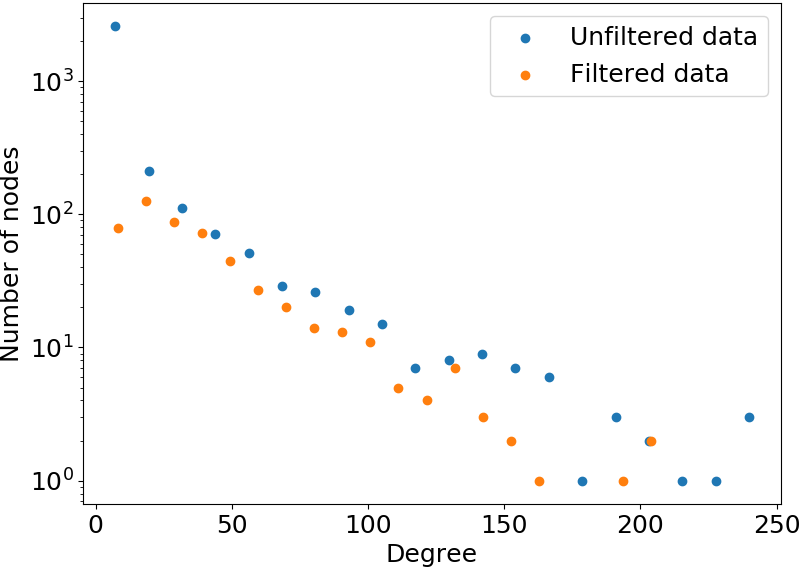
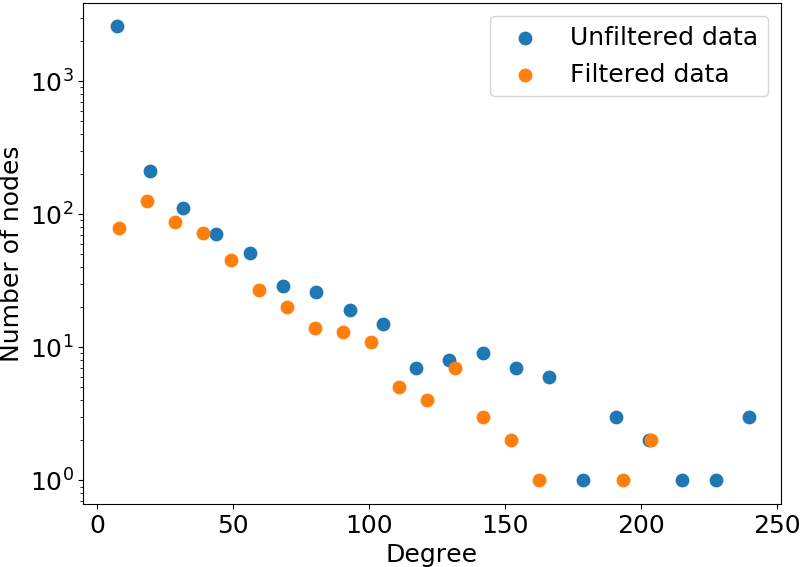
Reworked plots

diff --git a/utilities/plotting/network.py b/utilities/plotting/network.py
@@ -1,4 +1,4 @@
-from networkx import spring_layout, draw_networkx_nodes, draw_networkx_edges
+from networkx import spring_layout, draw_networkx_nodes, draw_networkx_edges, kamada_kawai_layout, rescale_layout
 from matplotlib.pyplot import figure, draw, axis, show, savefig, cm
 from utilities import fig_size
 from numpy import min, max, array
@@ -11,19 +11,19 @@ def plot_network(network, blocking=True, netx_plot=False, size=fig_size, weights
     ax.axis('off')  # Disable axis
 
     graph = network if netx_plot else network.network_plot
-    plot_layout = spring_layout(graph)
+    plot_layout = kamada_kawai_layout(graph)
 
     sizes, edge_colors, node_colors = 80, 'k', 'w'
     if weights is not None:
-        sizes = [10 if weight == 0 else 25 for weight in weights]
+        sizes = [50 if weight == 0 else 80 for weight in weights]
         node_colors = weights
 
-    if plot_edges: draw_networkx_edges(graph, plot_layout, alpha=.1)
+    if plot_edges: draw_networkx_edges(graph, plot_layout, alpha=.05)
     draw_networkx_nodes(graph, plot_layout, node_size=sizes, linewidths=.5, edgecolors='k', node_color=node_colors,
-                        cmap=cm.get_cmap('Blues'))
+                        cmap=cm.get_cmap('coolwarm'))
     draw()
 
-    if file_name is not None: savefig(file_name)
+    if file_name is not None: savefig(file_name, bbox_inches='tight', pad_inches=0)
     show(block=blocking)  # Open matplotlib window
 
 
@@ -63,7 +63,7 @@ def plot_net_w_routes(nodes, edges, plot_edges=True, blocking=True, file_name=No
 
     if file_name is not None:
         try:
-            savefig(file_name)
+            savefig(file_name, bbox_inches='tight', pad_inches=0)
         except:
             print('Bad save!')
 

diff --git a/execute/performance/centrality.py b/execute/performance/centrality.py
@@ -1,0 +1,37 @@
+from networkx import barabasi_albert_graph
+from time import time
+from utilities.plotting import plot_scatter_data
+from utilities import save_trials
+from model.optimize import simple_centrality, maximum_entropy, gradient_optimize
+from numpy import array, logspace
+from model import network
+
+img_name = '../../results/algorithm_performance/centrality.png'
+data_path = '../../data/algorithm_performance/centrality.csv'
+
+# net_sizes = [10, 20, 30, 50, 100, 150, 200, 250, 500, 750, 1000]
+net_sizes = logspace(1, 3, 10)
+optimize_times = []
+trials = 10
+
+for raw_size in net_sizes:
+    size = int(raw_size)
+    netx = barabasi_albert_graph(size, 5)
+
+    tmp = 0
+    for i in range(trials):
+        net = network(size, graph=netx)
+
+        start = time()
+        simple_centrality(net, 2, quiet=True)
+        end = time()
+
+        tmp += end - start
+
+    optimize_times.append(tmp / trials)
+    print('Done ' + str(size))
+
+
+data = array([net_sizes, optimize_times])
+save_trials(optimize_times, data_path, titles=net_sizes, single_line=True)
+plot_scatter_data(data, file_name=img_name, x_label='Network Size', y_label='Time to Optimize (s)')

diff --git a/execute/network/optimized_network.py b/execute/network/optimized_network.py
@@ -2,12 +2,19 @@ from execute.import_data import load_airport_and_route
 from execute.optimal_distribution import optimal_distribution
 from utilities.plotting import plot_net_w_routes, plot_network
 from networkx import from_edgelist
+from utilities import filter_degree, re_index
+from numpy import multiply
 
+data_path = '../../data/optimal_distribution/f_100_analytical.csv'
+airports, routes = load_airport_and_route(deep_load=True, filter_data=False)
+airports, _, routes = filter_degree(airports, routes, d_cut_off=100)
+airports, routes = re_index(airports, routes)
+weights = optimal_distribution(alt_file=data_path)
+weights = multiply(weights, -1)
 
-airports, routes = load_airport_and_route(deep_load=True)
-weights = optimal_distribution(deep_load=True)
+print(len(airports))
 
 path = '../../results/network/optimal.png'
 # plot_net_w_routes(airports, routes, plot_edges=False, weights=weights, file_name=path)
 netx = from_edgelist(routes)
-plot_network(netx, netx_plot=True, weights=weights, file_name=path)
+plot_network(netx, netx_plot=True, weights=weights, file_name=path, plot_edges=True, size=(9, 6))

diff --git a/utilities/plotting/analysis.py b/utilities/plotting/analysis.py
@@ -7,7 +7,7 @@ def plot_scatter_data(data, multiple=False, file_name=None, leg=None, blocking=T
     size = data_fig_size if size is None else size
     font_size = plot_font_size if font_size is None else font_size
     fig = figure(figsize=size)
-    rcParams.update({'font.size': font_size})
+    rcParams.update({'font.size': font_size, 'mathtext.default':  'regular'})
     ax = fig.gca()
 
     min_x, max_x, min_y, max_y = 0, 0, 0, 0
@@ -21,9 +21,9 @@ def plot_scatter_data(data, multiple=False, file_name=None, leg=None, blocking=T
             min_y = tmp_min_y if min_y > tmp_min_x else min_y
             max_y = tmp_max_y if max_y < tmp_max_y else max_y
 
-            ax.scatter(run[0, :], run[1, :])
+            ax.scatter(run[0, :], run[1, :], s=80)
     else:
-        ax.scatter(data[0, :], data[1, :])
+        ax.scatter(data[0, :], data[1, :], s=80)
         min_x, max_x = min(data[0, :]), max(data[0, :])
         min_y, max_y = min(data[1, :]), max(data[1, :])
 

diff --git a/execute/plots/solution_convergence.py b/execute/plots/solution_convergence.py
@@ -52,9 +52,9 @@ else:
 # Save and plot data
 time_n = len(trial_exposures[0]) - 1
 save_trials(trial_exposures, data_path, titles=num_nodes)
-plot_infection(trial_exposures, multiple=True, leg=num_nodes, file_name=fig_path, blocking=False)
+# plot_infection(trial_exposures, multiple=True, leg=num_nodes, file_name=fig_path, blocking=False)
 
 time_N_infections = trial_exposures[:, len(trial_exposures) - 1]
 data = array([num_nodes, time_N_infections])
 plot_scatter_data(data, x_label='Number of Nodes with Black Balls',
-                  y_label='Time n=' + str(time_n) + ' Infection', x_log=True, file_name=scat_path, size=(10, 7.5))
+                  y_label='$I_{' + str(time_n) + '}$', x_log=True, file_name=scat_path, size=(10, 7.5))

diff --git a/execute/plots/budget_impact.py b/execute/plots/budget_impact.py
@@ -48,8 +48,8 @@ time_N_infections = trial_infection[:, time_n]
 if fresh_data:
     save_trials(trial_infection, data_name, titles=ratios)
 
-plot_infection(trial_infection, leg=ratios, multiple=True, file_name=img_name, blocking=False)
+# plot_infection(trial_infection, leg=ratios, multiple=True, file_name=img_name, blocking=False)
 
 data = array([ratios, time_N_infections])
 plot_scatter_data(data, x_log=True, x_label='Black Budget / Red Budget',
-                  y_label='Time n=' + str(time_n) + ' Infection', file_name=scatter_name, size=(10, 7.5))
+                  y_label='$I_{' + str(time_n) + '}$', file_name=scatter_name, size=(10, 7.5))

diff --git a/execute/plots/delay_impact.py b/execute/plots/delay_impact.py
@@ -52,8 +52,8 @@ time_N_infections = trial_infection[:, time_n]
 if fresh_data:
     save_trials(trial_infection, data_name, titles=delay)
 
-plot_infection(trial_infection, leg=delay, multiple=True, file_name=img_name, blocking=False)
+# plot_infection(trial_infection, leg=delay, multiple=True, file_name=img_name, blocking=False)
 
 data = array([delay, time_N_infections])
-plot_scatter_data(data, x_label='Time step delay', y_label='Time n=' + str(time_n) + ' Infection',
+plot_scatter_data(data, x_label='Time step delay', y_label='$I_{' + str(time_n) + '}$',
                   file_name=scatter_name, size=(10, 7.5))

diff --git a/execute/optimal_distribution.py b/execute/optimal_distribution.py
@@ -6,8 +6,8 @@ from model import network
 from utilities import balls_per_node
 
 
-def optimal_distribution(deep_load=False):
-    path = '../data/optimal_distribution/analytical.csv'
+def optimal_distribution(deep_load=False, alt_file=None):
+    path = '../data/optimal_distribution/analytical.csv' if alt_file is None else alt_file
     if deep_load:
         path = '../' + path
     with open(path, 'r') as fl:

diff --git a/execute/plots/show_hereditary.py b/execute/plots/show_hereditary.py
@@ -55,8 +55,8 @@ fig = figure(figsize=(9, 6.5))
 rcParams.update({'font.size': 18})
 ax = fig.gca()
 
-ax.scatter(raw_midpoints, raw_h_data)
-ax.scatter(f_midpoints, f_h_data)
+ax.scatter(raw_midpoints, raw_h_data, s=80)
+ax.scatter(f_midpoints, f_h_data, s=80)
 
 if with_best_fit:
     ax.plot(uf_domain, exp(uf_best_fit(uf_domain)))
